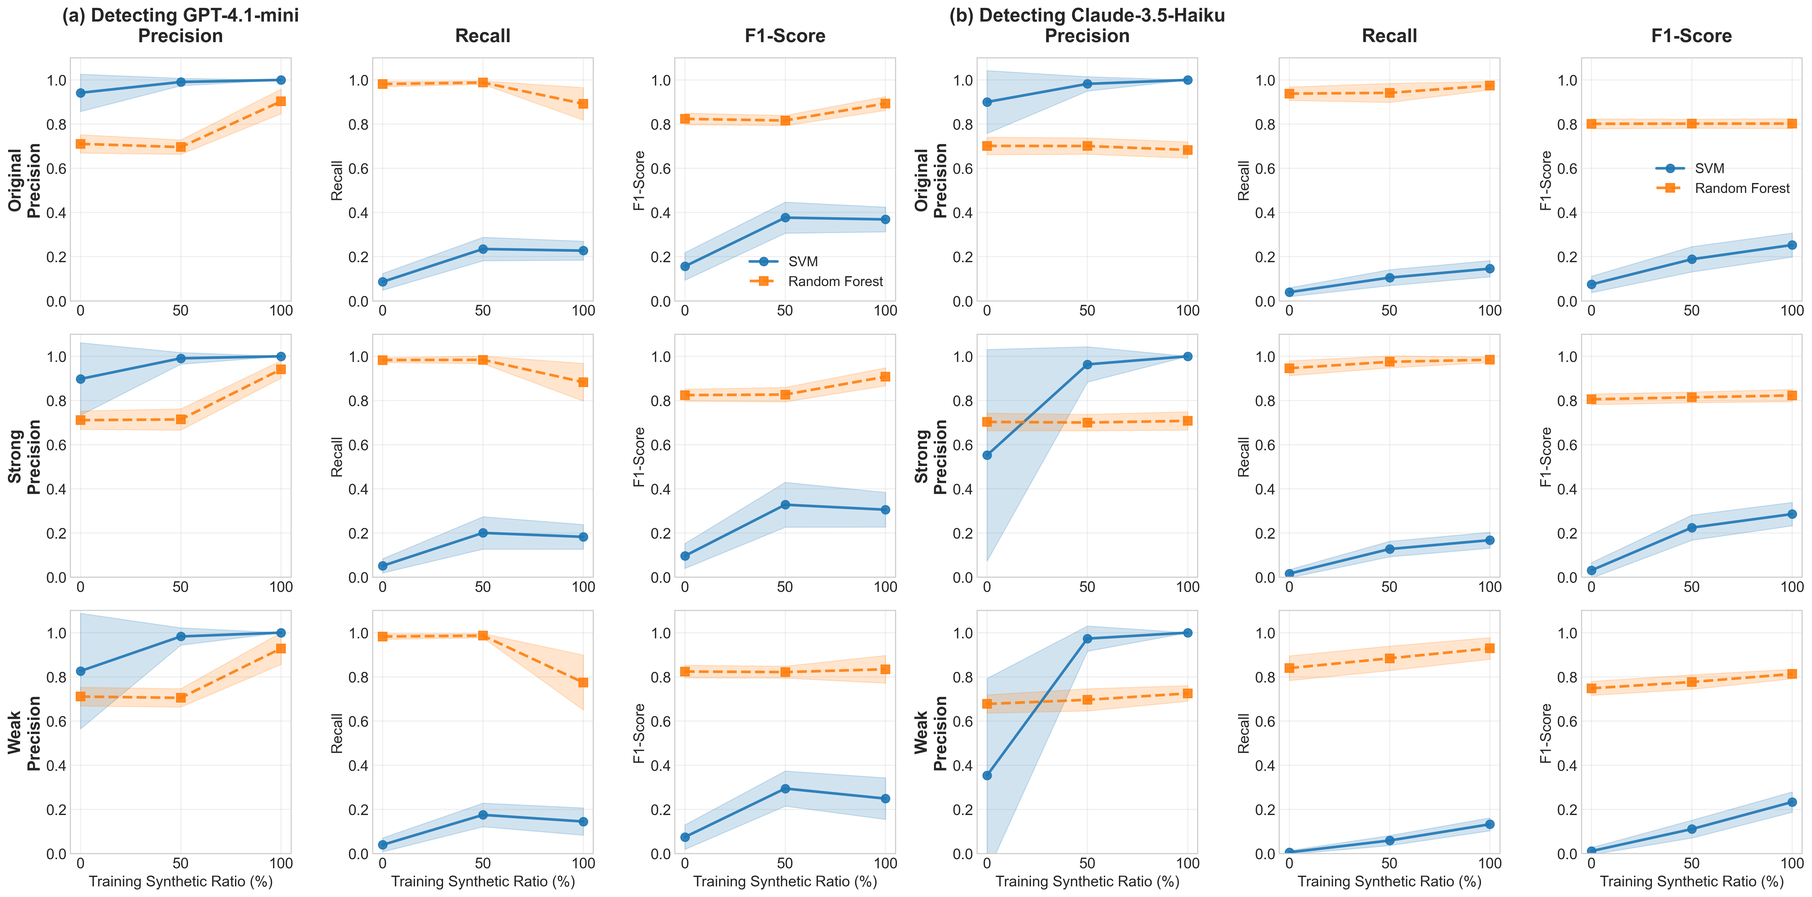
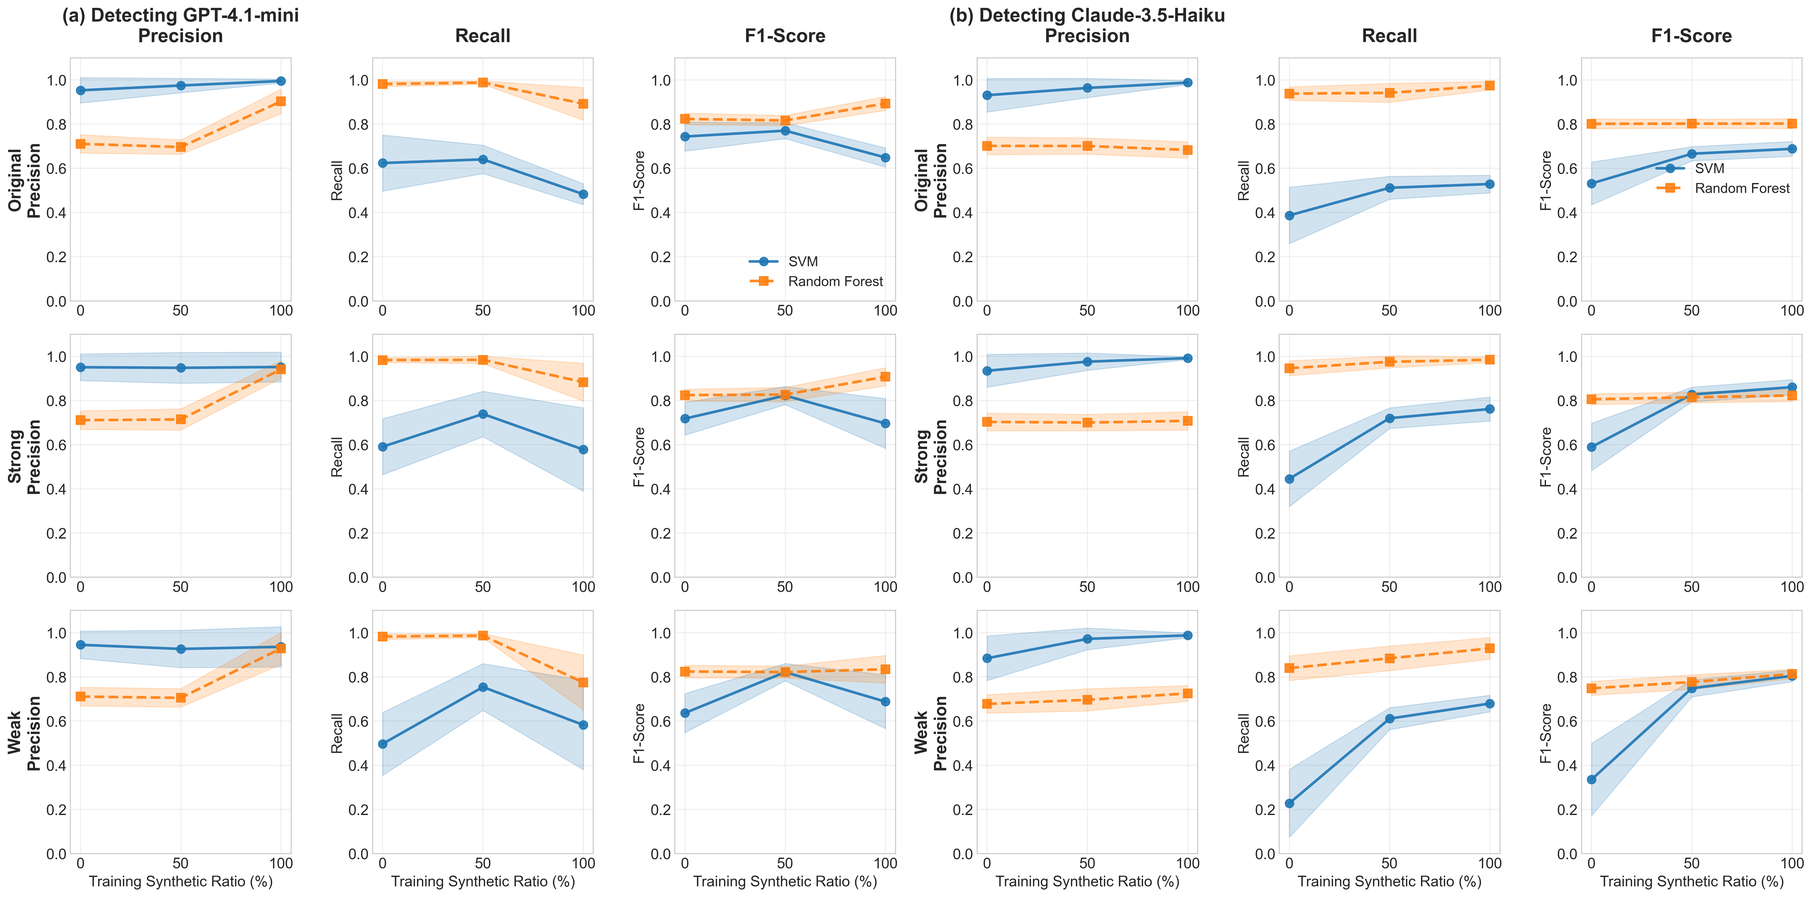
fixed track 2b error

diff --git a/paper/discussion.tex b/paper/discussion.tex
@@ -1,27 +1,12 @@
 \section{Discussion}
 \label{sec:discussion}
 
-As shown in Cross-Track Synthesis, GPT-4.1-mini demonstrates substantially superior generation quality compared to Claude-3.5-Haiku across all experimental tracks. The paradoxical relationship between training utility and detectability proves instructive: GPT's superior training effectiveness stems from closer distributional alignment to real spam, meaning GPT-generated content preserves the lexical patterns, feature co-occurrences, and statistical regularities that characterize genuine spam emails. This distributional fidelity enables classifiers to learn decision boundaries that generalize effectively to real spam detection tasks. However, this same proximity makes GPT synthetic spam more detectable classifiers trained exclusively on real spam can identify GPT-generated content because it shares sufficient statistical overlap with the training distribution.
+\textbf{Model selection and distributional fidelity.} Cross-Track Synthesis reveals GPT-4.1-mini's superior generation quality stems from distributional alignment to real spam—preserving lexical patterns and statistical regularities enabling effective classifier training. However, this proximity makes GPT synthetic spam more detectable. Claude exhibits greater distributional divergence, reducing both training utility and detectability. This paradox suggests high-quality synthetic generation requires balancing fidelity for training against divergence for evasion—a tension GPT navigates through linguistic realism rather than distributional mimicry.
 
-In contrast, Claude generates synthetic spam with greater distributional divergence from real spam, resulting in both reduced training utility and paradoxically lower detectability. This suggests that high-quality synthetic data generation requires achieving distributional fidelity sufficient for effective classifier training while maintaining enough divergence to evade detection—a delicate tension. GPT navigates this balance more successfully through subtle linguistic realism rather than crude distributional mimicry, generating spam that "sounds natural" while preserving the statistical patterns classifiers need for effective learning. For attackers seeking training augmentation, GPT provides superior utility; for attackers prioritizing evasion, both models offer pathways but through different mechanisms.
+\textbf{Architectural robustness.} Random Forest's consistent superiority across all tracks stems from bootstrap aggregation's resistance to distributional shifts. Multiple decision trees trained on random feature/sample subsets capture diverse patterns while avoiding overfitting to synthetic artifacts. Voting mechanisms average out sensitivities to distributional anomalies, producing stable predictions. SVM's margin-based learning optimizes single hyperplanes vulnerable to systematic biases in synthetic distributions, yielding linear degradation (Track 1) and non-monotonic behavior (Track 2b). Organizations should deploy Random Forest for stability despite higher computational costs, or SVM for predictable degradation patterns enabling capacity planning.
 
-As demonstrated in Cross-Track Synthesis, Random Forest consistently outperforms SVM across all experimental tracks. This architectural advantage stems from ensemble methods' inherent resistance to distributional shifts between real and synthetic spam. Random Forest's bootstrap aggregation mechanism trains multiple decision trees on random subsets of features and samples, enabling the ensemble to capture diverse statistical patterns while avoiding overfitting to specific distributional artifacts that may characterize synthetic data. When encountering synthetic spam during training or cross-model scenarios during testing, individual trees may respond differently to distributional anomalies, but the voting mechanism averages out these sensitivities, producing stable aggregate predictions.
+\textbf{Cross-model augmentation and quality-diversity trade-offs.} Cross-Track Synthesis shows weak prompt training data provides larger detection improvements than strong prompts, revealing diversity drives cross-model generalization more than quality. This inverts optimization strategies: attackers should prioritize high-fidelity data (Track 1), while defenders should prioritize diverse, lower-quality data capturing broader feature spaces (Track 2b). Track 1's precision-recall asymmetry reveals synthetic training maintains high precision but degrades recall, creating overly conservative classifiers. Organizations must account for this bias, potentially requiring hybrid real-synthetic training to preserve recall.
 
-For operational deployment, this architectural difference carries concrete implications. Organizations prioritizing stability and cross-model robustness should deploy Random Forest architectures, accepting slightly higher computational costs in exchange for consistent performance across varied synthetic augmentation strategies. Conversely, organizations requiring predictable degradation patterns for capacity planning may prefer SVM despite higher sensitivity, as the linear degradation enables reliable performance forecasting and intervention thresholds.
+\textbf{Asymmetric offense-defense dynamics.} LLMs favor attackers: low cost, minimal barriers, and high effectiveness (GPT maintains 86.6\% training utility) establish accessible offensive tools. Attackers leverage optimal models and prompts for either augmentation or evasion. Defenders face constraints: augmentation requires cross-model data, ensemble architectures, and precision-recall trade-offs. Model quality gaps create advantages defenders cannot fully mitigate. Defenders' primary resilience lies in Random Forest's inherent cross-model robustness. Overall, Generative AI shifts offense-defense balance toward attackers unless defenders adopt ensemble methods and cross-model augmentation proactively.
 
-Synthetic augmentation from one LLM improves detection of another LLM's spam, demonstrating the potential for "fighting fire with fire" defensive strategies. However, the counterintuitive finding that weak prompt training data provides larger improvements than strong prompt data reveals that diversity rather than quality drives cross-model generalization. This pattern suggests that lower-quality, more divergent synthetic spam better captures the full feature space of AI-generated content across varied generation strategies, enabling robust detection of synthetic spam regardless of the specific LLM or prompt used for generation.
-
-This finding fundamentally inverts the quality-diversity trade-off compared to training augmentation scenarios. For offensive training augmentation (Track 1), attackers should prioritize high-fidelity synthetic data matching real spam distributions. For defensive cross-model augmentation (Track 2b), defenders should prioritize diverse, lower-quality synthetic data capturing broader distributional variations. This asymmetry creates actionable guidance: defenders seeking maximum robustness against unknown LLM-generated spam should intentionally generate diverse, varied synthetic training data rather than optimizing for realism, accepting lower individual sample quality in exchange for broader feature space coverage.
-
-The precision-recall asymmetry observed in Track 1 reveals an additional limitation of synthetic training data. Classifiers trained on pure synthetic spam maintain high precision while suffering severe recall degradation, becoming overly conservative—correctly identifying spam when detected but missing many actual spam instances. This pattern suggests synthetic spam captures surface-level lexical features enabling spam recognition but fails to represent the full distributional diversity of real spam, causing classifiers to reject borderline cases. Organizations must account for this bias when establishing acceptance criteria, potentially requiring hybrid training strategies mixing real and synthetic data to preserve recall performance rather than relying exclusively on synthetic augmentation.
-
-These findings illuminate the fundamental asymmetry in Generative AI's impact on spam detection. For attackers, LLMs provide substantial advantages: as shown in Cross-Track Synthesis, GPT-4.1-mini generates synthetic spam maintaining high training effectiveness when substituted for real spam, while remaining moderately detectable by traditional defenses. The low generation cost, minimal technical barriers, and demonstrated evasion capabilities establish LLMs as accessible, effective offensive tools. Attackers can leverage superior models and optimal prompts to maximize either training augmentation or evasion, depending on strategic objectives.
-
-For defenders, benefits prove more constrained: synthetic augmentation improves detection but requires cross-model training data, architectural choices favoring robustness over performance, and acceptance of precision-recall trade-offs. The substantial quality gap between different LLM models suggests attackers selecting optimal models gain advantages defenders cannot fully mitigate through augmentation alone. Defenders' primary advantage lies in ensemble methods' inherent cross-model robustness, providing baseline resilience independent of specific augmentation strategies. Overall, Generative AI appears to favor attackers in spam generation while providing defenders with limited but measurable countermeasures, shifting the traditional offense-defense balance toward attackers unless defenders proactively adopt ensemble architectures and cross-model augmentation strategies.
-
-% \subsection{Limitations and Future Directions}
-
-Several limitations constrain generalizability and suggest directions for future research. Our TF-IDF feature representation captures lexical patterns but may miss semantic characteristics where deep learning models with contextualized embeddings (BERT, RoBERTa) might exhibit different sensitivity profiles to synthetic spam. The CEAS-08 dataset represents 2008 spam characteristics; evolving adversarial tactics and linguistic patterns may interact differently with modern LLM-generated synthetic data, warranting evaluation on contemporary spam corpora. Our fixed 10\% spam ratio represents one point on the class imbalance spectrum; more severe imbalance or near-balanced scenarios may produce different degradation patterns and optimal augmentation strategies.
-The two LLM models we evaluate (GPT-4.1-mini, Claude-3.5-Haiku) represent mid-tier commercial APIs optimized for cost-performance trade-offs. Several unexplored model categories may alter the offense-defense balance: (1) \textit{open-source LLMs} such as Llama 3, Mistral, and Qwen offering lower costs, local deployment capabilities, and greater privacy control; (2) \textit{broader price-performance tiers} ranging from budget models (GPT-3.5-turbo, Claude-3-Haiku) to frontier models (GPT-4o, Claude-3.5-Sonnet, o1) with potentially different quality-cost trade-offs for both attackers and defenders; and (3) \textit{specialized generation approaches} including traditional methods (template-based, Markov chains), domain-specific fine-tuned models, or hybrid approaches combining multiple generation strategies. These alternatives may provide superior cost-efficiency, controllability, or evasion capabilities depending on attacker objectives and defender constraints.
-
-Track 2 experiments focus on cross-model detection scenarios, while same-model detection (attackers and defenders using identical LLMs) remains unexplored and may exhibit different patterns due to shared distributional characteristics. Finally, our spam detection context may not generalize to other cybersecurity domains where synthetic data characteristics and detection requirements differ fundamentally from email classification tasks. Future work should explore these dimensions to establish comprehensive understanding of LLM-generated synthetic data across diverse security contexts.
+\textbf{Limitations.} TF-IDF captures lexical patterns but may miss semantics where deep learning with embeddings (BERT, RoBERTa) exhibits different sensitivities. CEAS-08 represents 2008 spam; modern corpora may interact differently with LLM-generated synthetic data. Fixed 10\% spam ratio represents one imbalance point; severe ($<$5\%) or balanced ($>$20\%) scenarios may differ. Our mid-tier models (GPT-4.1-mini, Claude-3.5-Haiku) may not generalize to: (1) open-source LLMs (Llama 3, Mistral, Qwen) offering lower costs and local deployment; (2) budget (GPT-3.5-turbo) or frontier models (GPT-4o, o1) with different quality-cost trade-offs; (3) specialized approaches (template-based, fine-tuned models, hybrid methods). Track 2 focuses on cross-model detection; same-model scenarios remain unexplored. Spam detection may not generalize to other cybersecurity domains.

diff --git a/scripts/generate_track2b_paper_plot.py b/scripts/generate_track2b_paper_plot.py
@@ -3,12 +3,14 @@
 Generate Track 2b paper plot: GPT and Claude side-by-side
 Mixed-to-Synthetic Detection (Cross-Model Augmentation)
 Showing Precision, Recall, and F1-Score
-Optimized for publication with larger fonts
+Reading directly from results files to avoid plotting_data.json issues
 """
 
 import argparse
 import os
 import json
+import glob
+import statistics
 import matplotlib.pyplot as plt
 import numpy as np
 from loguru import logger
@@ -29,26 +31,81 @@ def setup_matplotlib_for_paper():
     plt.rcParams['lines.markersize'] = 8
 
 
-def load_plotting_data(data_file: str) -> dict:
-    """Load plotting data from JSON file"""
-    with open(data_file, 'r') as f:
-        return json.load(f)
+def load_results_data(results_dir: str, method: str, prompt: str, strategy: str):
+    """Load results directly from result files
+
+    Args:
+        results_dir: Directory containing result files
+        method: gpt41mini or claude35haiku
+        prompt: original, strong, or weak
+        strategy: cross_group or within_group
+
+    Returns:
+        Dict with metrics data organized by classifier and ratio
+    """
+    data = {
+        'svm': {},
+        'random_forest': {}
+    }
+
+    # Find all result files for this configuration
+    pattern = f"{method}_{prompt}_{strategy}_ratio*_reverse_results.json"
+    files = glob.glob(os.path.join(results_dir, pattern))
+
+    logger.info(f"Found {len(files)} files for {method}/{prompt}/{strategy}")
+
+    for filepath in files:
+        # Extract ratio from filename
+        filename = os.path.basename(filepath)
+        ratio_str = filename.split('_ratio')[1].split('_')[0]
+        ratio = int(ratio_str)
+
+        # Load file
+        with open(filepath, 'r') as f:
+            file_data = json.load(f)
+
+        # Extract metrics for each classifier
+        for clf_name in ['svm', 'random_forest']:
+            metrics_list = {
+                'precision': [],
+                'recall': [],
+                'f1_score': []
+            }
+
+            # Collect metrics from all groups
+            for result in file_data['results']:
+                if 'classifiers' in result and clf_name in result['classifiers']:
+                    clf_metrics = result['classifiers'][clf_name]['metrics']
+                    metrics_list['precision'].append(clf_metrics['precision'])
+                    metrics_list['recall'].append(clf_metrics['recall'])
+                    metrics_list['f1_score'].append(clf_metrics['f1_score'])
+
+            # Calculate statistics
+            if ratio not in data[clf_name]:
+                data[clf_name][ratio] = {}
+
+            for metric_name, values in metrics_list.items():
+                if values:
+                    data[clf_name][ratio][metric_name] = {
+                        'mean': statistics.mean(values),
+                        'std': statistics.stdev(values) if len(values) > 1 else 0
+                    }
+
+    return data
 
 
-def create_track2b_combined_plot(data_file: str, output_path: str,
+def create_track2b_combined_plot(results_dir: str, output_path: str,
                                   strategy: str = 'cross_group'):
     """
     Create combined Track 2b plot with GPT and Claude side by side
     Showing Precision, Recall, and F1-Score
 
     Args:
-        data_file: Path to plotting data JSON
+        results_dir: Directory containing result files
         output_path: Output file path
         strategy: within_group or cross_group
     """
     logger.info("Creating Track 2b combined paper plot...")
-
-    plotting_data = load_plotting_data(data_file)
 
     prompts = ['original', 'strong', 'weak']
     prompt_labels = {
@@ -79,21 +136,9 @@ def create_track2b_combined_plot(data_file: str, output_path: str,
         ('claude35haiku', 'Claude-3.5-Haiku')
     ]):
 
-        if method not in plotting_data:
-            logger.warning(f"Method {method} not found in plotting data")
-            continue
-
         for prompt_idx, prompt in enumerate(prompts):
-            if prompt not in plotting_data[method]:
-                logger.warning(f"Prompt {prompt} not found for {method}")
-                continue
-
-            prompt_data = plotting_data[method][prompt]
-            if strategy not in prompt_data:
-                logger.warning(f"Strategy {strategy} not found")
-                continue
-
-            strategy_data = prompt_data[strategy]
+            # Load data for this configuration
+            data = load_results_data(results_dir, method, prompt, strategy)
 
             for metric_idx, metric in enumerate(metrics):
                 col_idx = model_idx * 3 + metric_idx
@@ -101,20 +146,19 @@ def create_track2b_combined_plot(data_file: str, output_path: str,
 
                 # Plot each classifier
                 for clf_name, style in clf_styles.items():
-                    if clf_name not in strategy_data:
+                    if clf_name not in data:
                         continue
 
-                    clf_data = strategy_data[clf_name]
-                    ratios = sorted([int(r) for r in clf_data.keys()])
+                    clf_data = data[clf_name]
+                    ratios = sorted(clf_data.keys())
 
                     means = []
                     stds = []
 
                     for ratio in ratios:
-                        ratio_stats = clf_data[str(ratio)]
-                        if metric in ratio_stats:
-                            means.append(ratio_stats[metric]['mean'])
-                            stds.append(ratio_stats[metric]['std'])
+                        if metric in clf_data[ratio]:
+                            means.append(clf_data[ratio][metric]['mean'])
+                            stds.append(clf_data[ratio][metric]['std'])
                         else:
                             means.append(np.nan)
                             stds.append(np.nan)
@@ -188,8 +232,8 @@ def create_track2b_combined_plot(data_file: str, output_path: str,
 
 def main():
     parser = argparse.ArgumentParser(description='Generate Track 2b paper plot')
-    parser.add_argument('--data-file', required=True,
-                       help='Path to plotting data JSON file')
+    parser.add_argument('--results-dir', default='output/reverse_detection/results',
+                       help='Directory containing result files')
     parser.add_argument('--output', required=True,
                        help='Output file path')
     parser.add_argument('--strategy', default='cross_group',
@@ -199,7 +243,7 @@ def main():
     args = parser.parse_args()
 
     setup_matplotlib_for_paper()
-    create_track2b_combined_plot(args.data_file, args.output, args.strategy)
+    create_track2b_combined_plot(args.results_dir, args.output, args.strategy)
 
 
 if __name__ == '__main__':

diff --git a/paper/evaluation.tex b/paper/evaluation.tex
@@ -134,12 +134,12 @@ Figure~\ref{fig:track2b} presents detection performance metrics (Precision, Reca
 
 \subsection{Cross-Track Synthesis}
 
-Comparing results across all three tracks reveals fundamental patterns in LLM-generated spam effectiveness:
+Comparing results across all three tracks reveals three key patterns:
 
-\textbf{Asymmetric offense-defense dynamics with model-dependent advantages.} Track 1 shows GPT synthetic data maintains 86.6\% of baseline training effectiveness (SVM F1: 0.849 $\rightarrow$ 0.735 at 100\% synthetic with original prompts), while Track 2a demonstrates 74.4\% detection success rate (SVM F1: 0.744 for detecting GPT original-prompt spam with 100 real training samples). This indicates GPT synthetic spam proves highly effective for offensive training augmentation while remaining moderately detectable by traditional defenses. Claude exhibits opposite dynamics: only 53.8\% training effectiveness (SVM F1: 0.849 $\rightarrow$ 0.457) but also lower baseline detectability (SVM F1: 0.532), suggesting Claude generates spam that both harms training utility and evades detection. This asymmetry establishes that model selection critically determines strategic advantages: GPT favors attackers seeking training augmentation, while Claude favors attackers prioritizing evasion.
+\textbf{Model-dependent performance asymmetry.} Track 1: GPT synthetic data maintains 86.6\% of baseline training effectiveness (SVM F1: 0.849 $\rightarrow$ 0.735 at 100\% synthetic), while Claude retains 53.8\% (F1: 0.849 $\rightarrow$ 0.457). Track 2a: GPT synthetic spam shows 74.4\% baseline detectability (SVM F1: 0.744), while Claude shows 53.2\% detectability (F1: 0.532).
 
-\textbf{Architectural robustness advantages with consistent ensemble superiority.} Random Forest consistently outperforms SVM across all experimental tracks. In Track 1 with Claude original-prompt synthetic data, Random Forest maintains F1 = 0.796 at 100\% synthetic while SVM degrades to F1 = 0.457 (+74.2\% relative advantage). In Track 2a Claude baseline detection, Random Forest achieves F1 = 0.800 versus SVM's F1 = 0.532 (+50.4\% relative). In Track 2b, Random Forest maintains stable or improving performance across synthetic ratios while SVM exhibits non-monotonic degradation patterns. This consistent superiority demonstrates that ensemble methods provide fundamental architectural advantages for handling distributional shifts between real and synthetic spam, and between cross-model synthetic sources.
+\textbf{Consistent ensemble superiority.} Random Forest outperforms SVM across all tracks. Track 1: Random Forest maintains F1 = 0.796 at 100\% synthetic (Claude), while SVM degrades to F1 = 0.457 (+74.2\% advantage). Track 2a: Random Forest achieves F1 = 0.800 vs SVM's F1 = 0.532 (+50.4\%). Track 2b: Random Forest shows stable performance, SVM exhibits non-monotonic patterns.
 
-\textbf{Cross-model feature transferability enables defensive augmentation strategies.} Track 2b demonstrates that synthetic augmentation from one LLM improves detection of another LLM's spam: Claude detection improves +29.3\% (original prompt) to +140.3\% (weak prompt) with SVM at 100\% GPT synthetic training, while GPT detection improves +8.5\% to +10.2\% with Random Forest using Claude synthetic training. These cross-model gains indicate LLM-generated spam shares underlying statistical patterns that generalize across generation sources despite model-specific variations. However, the magnitude of improvements varies substantially by baseline performance, prompt strategy, and classifier architecture, requiring practitioners to empirically validate augmentation effectiveness for specific deployment scenarios rather than assuming universal transferability.
+\textbf{Cross-model transferability.} Track 2b: Synthetic augmentation from one LLM improves detection of another LLM's spam. Claude detection improves +29.3\% to +140.3\% (SVM at 100\% GPT synthetic training). GPT detection improves +8.5\% to +10.2\% (Random Forest using Claude synthetic). Improvement magnitude varies by baseline, prompt, and classifier.
 
 Complete statistical analysis including hypothesis tests, effect sizes, confidence intervals, and detailed performance metrics (Accuracy, Precision, Recall, AUC-ROC) are provided in Appendix~\ref{appendix:detailed_statistics}.
